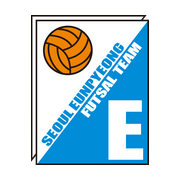
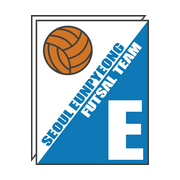
fix(site): 엠블럼 색을 기존 로고에 맞춤 (원본 벡터 모양 + 기존 색)
- 파랑 #0E79B6·공 주황 #D47525·선 #404342·SINCE 2012 #31617A
- emblem.png·emblem-mark.png·탭 아이콘 다시 만듦

Claude-Session: https://claude.ai/code/session_01KQVuA2kxxdcTX7GeV6BuEM

Changed region(s): [[0.1667, 0.0833, 0.8333, 0.9167]]

diff --git a/sites/eunpyeong-denforce/docs/KNOWN_ISSUES.md b/sites/eunpyeong-denforce/docs/KNOWN_ISSUES.md
@@ -248,7 +248,7 @@
 - **위치**: `src/data/people.ts`, `src/data/matches.ts`, `src/data/sponsors.ts`
 
 ## I-001 | 2026-10-15 | 엠블럼이 저해상도 JPG, 공식 컬러 가이드 없음
-- **상태**: 엠블럼은 해결(2026-10-16) — 소유자가 원본 벡터(서울은평엠블럼.ai)를 줘서 `public/brand/emblem.png`(600×829, SINCE 2012 포함)·`emblem-mark.png`(600×766)·브라우저 탭 아이콘(app/favicon.ico·icon.png·apple-icon.png)을 다시 만듦. 엠블럼 원본 색: 파랑 #008CD6, 주황 #ED8302, 선 #16100E — 사이트 색 토큰(`--c-blue` #1a349a 등)은 그대로(바꾸려면 소유자 결정). 공식 컬러 가이드는 여전히 없음
+- **상태**: 엠블럼은 해결(2026-10-16) — 소유자가 원본 벡터(서울은평엠블럼.ai)를 줘서 `public/brand/emblem.png`(600×829, SINCE 2012 포함)·`emblem-mark.png`(600×766)·브라우저 탭 아이콘(app/favicon.ico·icon.png·apple-icon.png)을 다시 만듦. 원본 .ai 색(파랑 #008CD6·주황 #ED8302·선 #16100E)은 지금까지 쓰던 로고와 달라 소유자 지시("색은 맞춰줘")로 기존 로고 색에 맞춰 칠함 — 파랑 #0E79B6·공 주황 #D47525·선 #404342·SINCE 2012 #31617A. 사이트 색 토큰(`--c-blue` #1a349a 등)은 그대로. 공식 컬러 가이드는 여전히 없음
 - **심각도**: 낮음
 - **증상/내용**: 엠블럼은 제안서에서 추출한 171×195 JPG(흰 배경). 컬러는 제안서·유니폼에서 추출 (D-004).
 - **해결 방향**: 구단에서 SVG/PNG 원본 로고와 컬러값 받으면 `public/brand/`, `src/styles/tokens.css` 교체.

diff --git a/sites/eunpyeong-denforce/docs/DOMAIN_KNOWLEDGE.md b/sites/eunpyeong-denforce/docs/DOMAIN_KNOWLEDGE.md
@@ -69,7 +69,7 @@
 
 구단 대표: 최경진 (푸터 표기, D-023). 서울은평FS 시절 선수(2013-14 MOM 기록)·대표 겸 플레잉 코치(2018 인터뷰), 유튜브 "최경진 풋살사관학교"(풋살사관학교 = 서울은평 2군 체제로 운영, 2022 모집글).
 
-영문 팀명: SEOUL EUNPYEONG DENFORCE FUTSAL TEAM (소유자 확인 2026-10-16, `SITE.nameEn` — 헤더 로고 아래). 엠블럼 그림 속 문구는 'SEOUL EUNPYEONG FUTSAL TEAM' 그대로. 엠블럼 원본: 소유자 제공 벡터 '서울은평엠블럼.ai'(2026-10-16) — 색 파랑 #008CD6·주황 #ED8302·선 #16100E, 아래 'SINCE 2012'.
+영문 팀명: SEOUL EUNPYEONG DENFORCE FUTSAL TEAM (소유자 확인 2026-10-16, `SITE.nameEn` — 헤더 로고 아래). 엠블럼 그림 속 문구는 'SEOUL EUNPYEONG FUTSAL TEAM' 그대로. 엠블럼 원본: 소유자 제공 벡터 '서울은평엠블럼.ai'(2026-10-16, 파일 색은 파랑 #008CD6·주황 #ED8302·선 #16100E). 사이트에서 쓰는 엠블럼 색은 기존 로고에 맞춤(소유자 지시) — 파랑 #0E79B6·공 주황 #D47525·선 #404342·'SINCE 2012' #31617A.
 
 같은 구단을 가리키는 이름 (소유자 확인, 자료 수집·검색 시 모두 사용): 서울은평FS, 서울은평 풋볼아카데미, 서울은평덴포스, 서울은평ZD스포츠, 서울은평나인티플러스 (띄어쓰기·FC 유무 변형 포함). 화면 표기는 항상 `SITE.name`("서울은평 덴포스").
 
